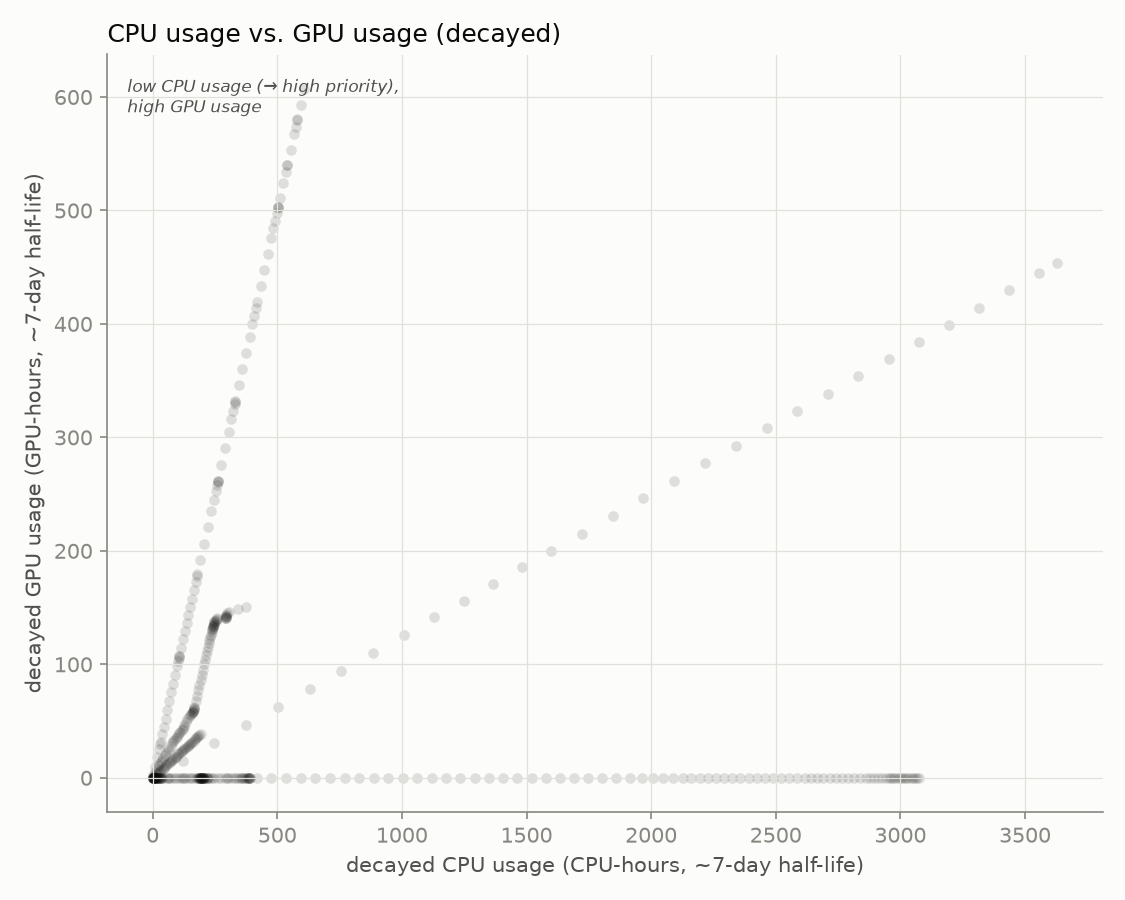
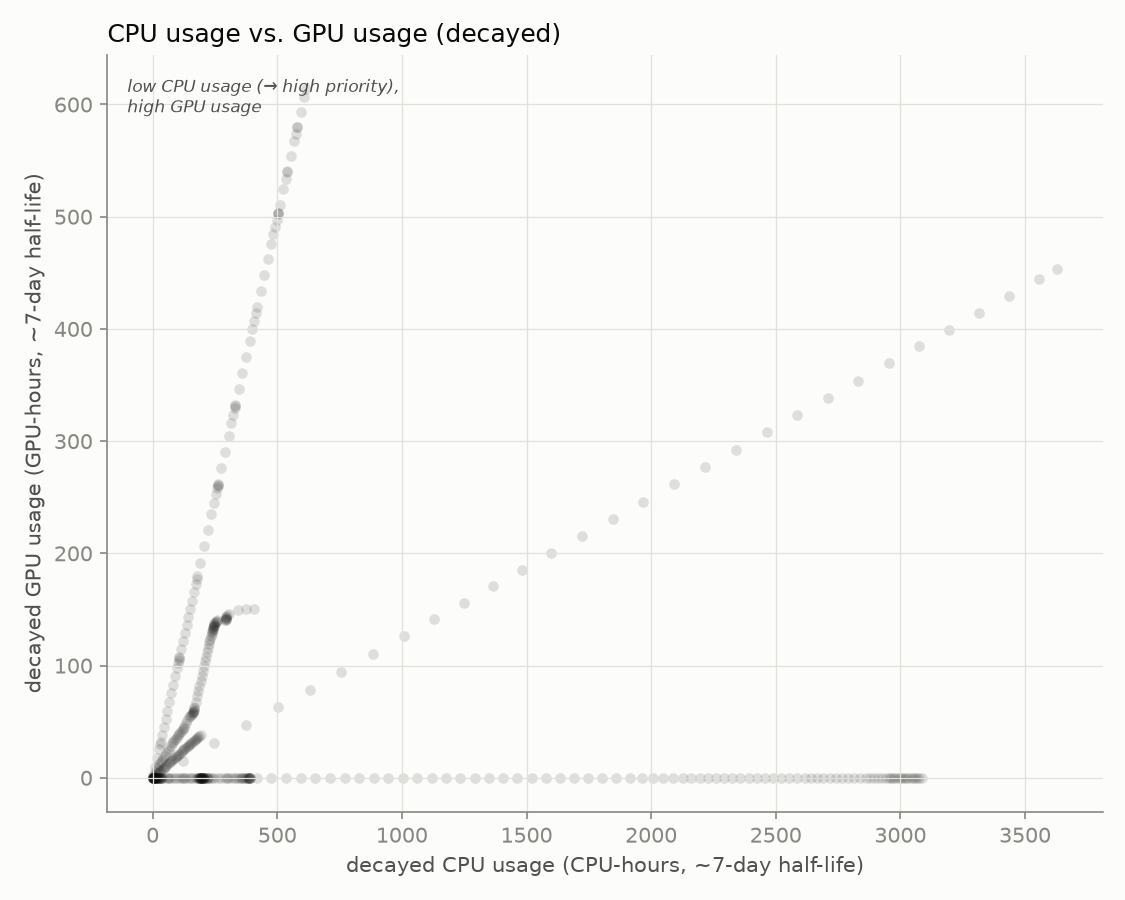
update 2026-08-07T08:00:01-07:00

diff --git a/README.md b/README.md
@@ -2,8 +2,8 @@
 
 Automated GPU/CPU/queue utilization tracker for `hopper.cluster`, updated every 30 minutes by cron. Usernames are anonymized to a stable per-account pseudonym; lab names are real.
 
-Last updated: 2026-08-07T07:30:19-07:00
-Samples: 83 queue snapshots, 83 GPU snapshots
+Last updated: 2026-08-07T08:00:16-07:00
+Samples: 84 queue snapshots, 84 GPU snapshots
 
 ## Resources
 
@@ -16,7 +16,7 @@ Samples: 83 queue snapshots, 83 GPU snapshots
 
 ## Headline
 
-- **53.4%** of the cluster's 60 GPUs allocated, averaged across all samples
+- **53.1%** of the cluster's 60 GPUs allocated, averaged across all samples
 - **43.7%** average `nvidia-smi` utilization *when* a GPU is allocated to a job
 - **85.8%** average cgroup CPU utilization *when* a CPU is allocated to a job
 
@@ -24,14 +24,14 @@ Samples: 83 queue snapshots, 83 GPU snapshots
 
 <table>
 <tr><th>Lab</th><th>User</th><th align='right'>GPU-hours allocated</th><th align='right'>CPU-hours allocated</th><th align='right'>GPU utilization</th></tr>
-<tr style='background-color:#fbebf1'><td>zhuang-lab</td><td>user-0db9ced0</td><td align='right'>658.0</td><td align='right'>658.0</td><td align='right'>48%</td></tr>
+<tr style='background-color:#fbebf1'><td>zhuang-lab</td><td>user-0db9ced0</td><td align='right'>666.0</td><td align='right'>666.0</td><td align='right'>48%</td></tr>
 <tr style='background-color:#d8efef'><td>witter-lab</td><td>user-d58f5a15</td><td align='right'>467.5</td><td align='right'>3740.0</td><td align='right'>9%</td></tr>
-<tr style='background-color:#d8efef'><td>witter-lab</td><td>user-554c620c</td><td align='right'>164.0</td><td align='right'>404.0</td><td align='right'>68%</td></tr>
+<tr style='background-color:#d8efef'><td>witter-lab</td><td>user-554c620c</td><td align='right'>164.5</td><td align='right'>437.0</td><td align='right'>68%</td></tr>
 <tr style='background-color:#fcf0d8'><td>nerenberg-lab</td><td>user-6bb5f332</td><td align='right'>40.0</td><td align='right'>200.0</td><td align='right'>71%</td></tr>
+<tr style='background-color:#fce8e0'><td>ibarragarciapadilla-lab</td><td>user-eec7ffae</td><td align='right'>0.0</td><td align='right'>426.5</td><td align='right'>—</td></tr>
 <tr style='background-color:#fcf0d8'><td>nerenberg-lab</td><td>user-b12dc074</td><td align='right'>0.0</td><td align='right'>16.0</td><td align='right'>—</td></tr>
-<tr style='background-color:#fce8e0'><td>ibarragarciapadilla-lab</td><td>user-3cfc41a3</td><td align='right'>0.0</td><td align='right'>3412.5</td><td align='right'>—</td></tr>
+<tr style='background-color:#fce8e0'><td>ibarragarciapadilla-lab</td><td>user-3cfc41a3</td><td align='right'>0.0</td><td align='right'>3427.5</td><td align='right'>—</td></tr>
 <tr style='background-color:#fce8e0'><td>ibarragarciapadilla-lab</td><td>user-dad71a72</td><td align='right'>0.0</td><td align='right'>6.0</td><td align='right'>—</td></tr>
-<tr style='background-color:#fce8e0'><td>ibarragarciapadilla-lab</td><td>user-eec7ffae</td><td align='right'>0.0</td><td align='right'>426.0</td><td align='right'>—</td></tr>
 <tr style='background-color:#dfeaf8'><td>enkavi-lab</td><td>user-c21bdaa4</td><td align='right'>0.0</td><td align='right'>38.0</td><td align='right'>—</td></tr>
 </table>
 
@@ -43,7 +43,7 @@ Samples: 83 queue snapshots, 83 GPU snapshots
 
 Solid = utilized by lab, hatched = allocated but idle, gray = usage not traceable to a lab, dashed line = cluster capacity.
 
-Attribution combines `nvidia-smi`'s process listing with Slurm's GPU-to-job binding record; the latter caught **2005** readings the former missed.
+Attribution combines `nvidia-smi`'s process listing with Slurm's GPU-to-job binding record; the latter caught **2018** readings the former missed.
 
 ## Queue
 
@@ -55,13 +55,13 @@ Attribution combines `nvidia-smi`'s process listing with Slurm's GPU-to-job bind
 
 ![CPU usage vs GPU usage, decayed](assets/cpu_gpu_usage.png)
 
-One point per user per snapshot (n=412), usage decayed on Slurm's ~7-day fairshare half-life.
+One point per user per snapshot (n=416), usage decayed on Slurm's ~7-day fairshare half-life.
 
 **GPU usage doesn't count toward priority on this cluster** (`TRESBillingWeights`/`PriorityWeightTRES` unset) - watch the **upper-left**: low CPU usage (high priority) with high GPU usage.
 
 ## Recommendations
 
-1. **Weight GPU usage in fairshare.** `TRESBillingWeights` and `PriorityWeightTRES` are both unset right now, so Slurm's fairshare score only sees CPU-seconds - a job holding 4 idle L40S GPUs costs nothing in priority as long as it isn't also holding CPUs. That's the exact failure mode the scatter above is built to catch (upper-left: low CPU usage, high GPU usage). Fix: `scontrol update partition=main TRESBillingWeights=CPU=1.0,GRES/gpu=<weight>` (or set `PriorityWeightTRES` cluster-wide), then `scontrol reconfigure` - a full `slurmctld` restart also works but drops in-flight priority state. A reasonable starting point for `<weight>` is the CPUs-per-GPU ratio on a GPU node (128 CPUs / 4 GPUs = 32), so one GPU costs as much fairshare as the CPU share it displaces; tune from there against next week's headline numbers (53.4% allocated, 43.7% utilized when allocated, as of this snapshot). The weight value itself is a policy call - loop in whoever owns cluster allocation policy before changing it.
+1. **Weight GPU usage in fairshare.** `TRESBillingWeights` and `PriorityWeightTRES` are both unset right now, so Slurm's fairshare score only sees CPU-seconds - a job holding 4 idle L40S GPUs costs nothing in priority as long as it isn't also holding CPUs. That's the exact failure mode the scatter above is built to catch (upper-left: low CPU usage, high GPU usage). Fix: `scontrol update partition=main TRESBillingWeights=CPU=1.0,GRES/gpu=<weight>` (or set `PriorityWeightTRES` cluster-wide), then `scontrol reconfigure` - a full `slurmctld` restart also works but drops in-flight priority state. A reasonable starting point for `<weight>` is the CPUs-per-GPU ratio on a GPU node (128 CPUs / 4 GPUs = 32), so one GPU costs as much fairshare as the CPU share it displaces; tune from there against next week's headline numbers (53.1% allocated, 43.7% utilized when allocated, as of this snapshot). The weight value itself is a policy call - loop in whoever owns cluster allocation policy before changing it.
 
 2. **Escalate on sustained low utilization** (see table and scatter above). Right now the clearest candidate is `user-d58f5a15` in `witter-lab`: 467.5 GPU-hours allocated at 9% average utilization, i.e. roughly 424 GPU-hours that sat idle instead of going to someone in the queue. Turning that into an automated escalation needs two decisions made up front: a utilization threshold (something like under 20% mean utilization over at least 50 allocated GPU-hours is a defensible starting bar - loose enough to skip short debugging runs, tight enough to catch parked allocations) and a grace period (how many consecutive low-utilization snapshots before it counts as "sustained" rather than a momentary lull between batches). Once those are set, the mechanism can be either soft (a bot that reads `data/gpu_samples.jsonl` and reminds the user/lab by email or Slack) or hard (a Slurm-side QOS penalty, e.g. `sacctmgr modify qos <qos> set Priority-=<n>`, applied after N consecutive offending snapshots). Neither exists yet - today the table and scatter above are a read-only signal, not an enforced policy.
 
